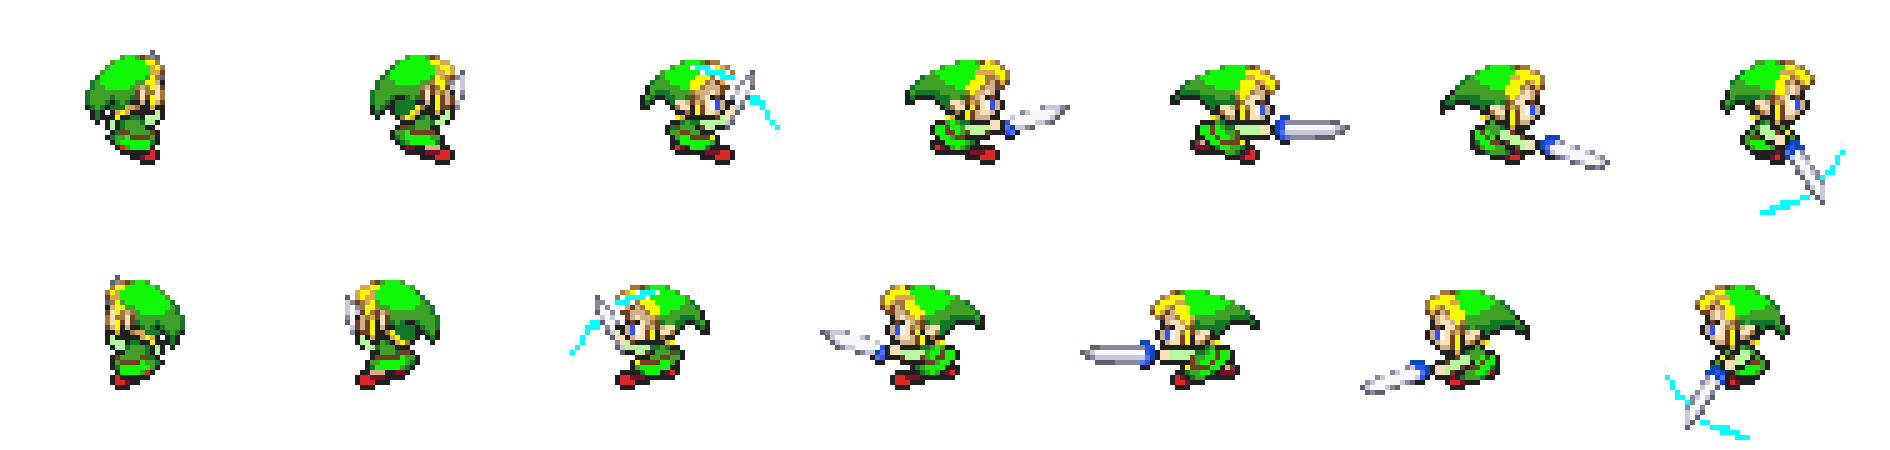
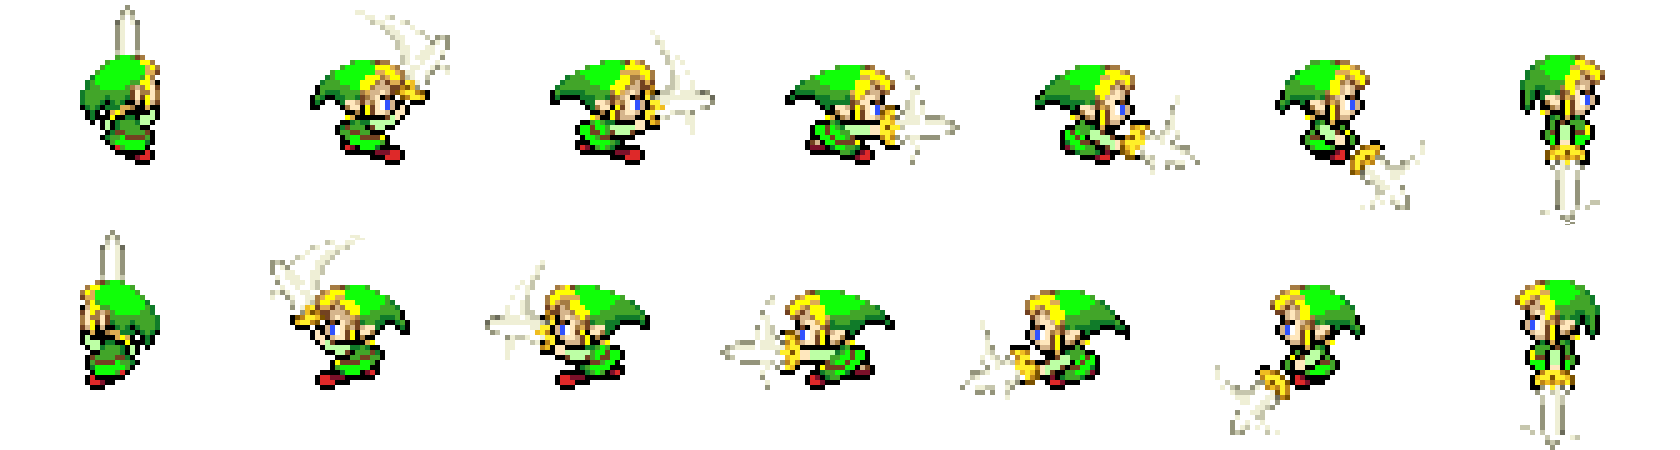
Attack 이미지 더 깔끔하게 수정
+ 그에 따른 이미지 좌표 수정

diff --git a/play_state.py b/play_state.py
@@ -118,8 +118,8 @@ class MainCharacter:
         self.Roll_frame_x, self.Roll_frame_y = 0, 0
 
         self.Attack = False
-        self.Attack_x = load_image('Link/Attack/attack_x.png')  # 공격
-        self.Attack_y = load_image('Link/Attack/attack_y.png')
+        self.Attack_x = load_image('Link/Attack/attack_x (2).png')  # 공격
+        self.Attack_y = load_image('Link/Attack/attack_y (2).png')
         self.Attack_frame_x, self.Attack_frame_y = 0, 0
 
         self.Spin = False
@@ -204,9 +204,9 @@ class MainCharacter:
             clear_canvas()
 
             if self.direction == 0 or self.direction == 1:
-                self.Attack_y.clip_draw(self.Attack_frame_y * 190, dir_to_frame(self.direction) * 265, 190, 265, self.x, self.y)
+                self.Attack_y.clip_draw(self.Attack_frame_y * 230, dir_to_frame(self.direction) * 265, 230, 265, self.x, self.y)
             elif self.direction == 2 or self.direction == 3:
-                self.Attack_x.clip_draw(self.Attack_frame_x * 270, dir_to_frame(self.direction) * 225, 270, 225, self.x, self.y)
+                self.Attack_x.clip_draw(self.Attack_frame_x * 240, dir_to_frame(self.direction) * 225, 240, 225, self.x, self.y)
 
         if self.Spin:
             clear_canvas()
